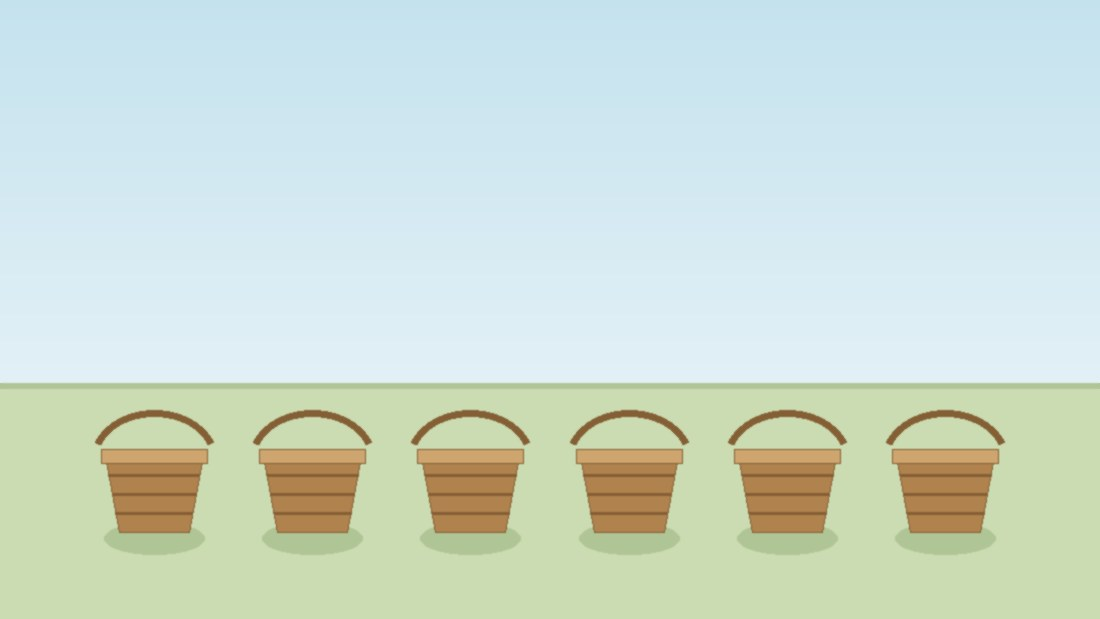
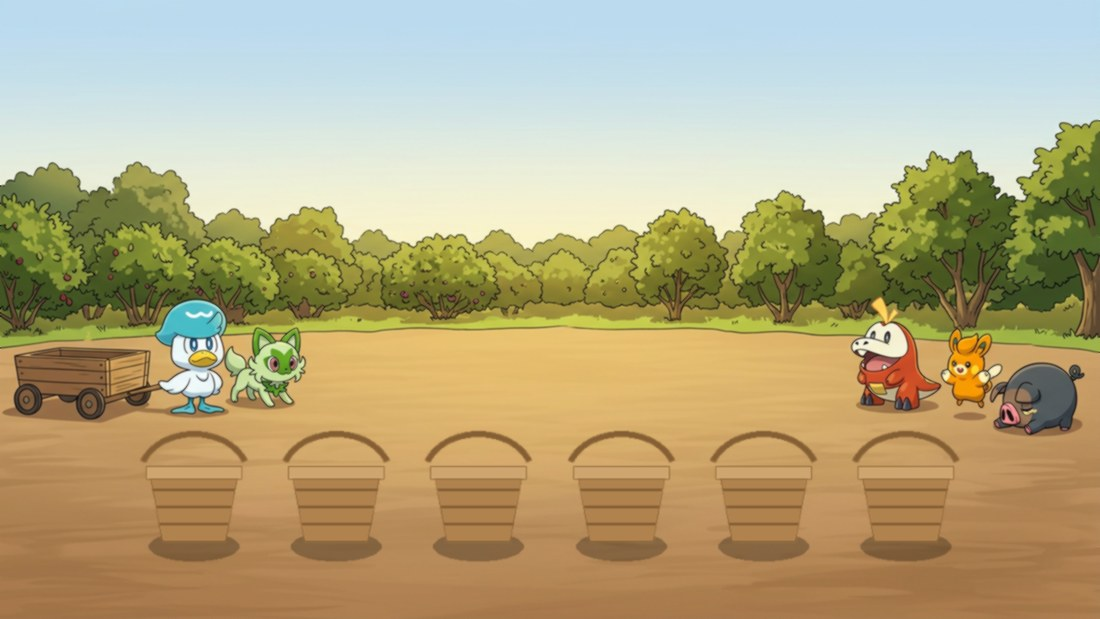
HH-167: paint real scenes behind the counting panels — Lessons 6, 7, 8
Same split as Lesson 5: the model paints the scene with the stage bare
and the cast at the edges, the exact objects go on top from the
deterministic renderer. Seven more panels, every one counted by eye
against its caption: 8 loose berries on the dock; 6 empty baskets; the
6-unit bar of 5 twice (30, and the same bar with one section lit); the
30-berry heap in three rows of ten; 1 basket of 4 against 3 baskets of
4; the two comparison bars from one left edge.

One more staging lesson: a full-width bar model runs edge to edge and
lands on top of whoever is standing in the corners, so full-span panels
inset the object layer to four-fifths, anchored bottom-centre so the
objects stay on the ground. Recompositing is free, so the Lesson 5
panels took the inset too.

diff --git a/tutor/management/commands/illustrate_ch4_diagrams.py b/tutor/management/commands/illustrate_ch4_diagrams.py
@@ -134,8 +134,9 @@ SCENES = {
         "blue-headed duckling QUAXLY stands proudly with a stick in one wing; at the far "
         "RIGHT edge the grass kitten SPRIGATITO and the red crocodile FUECOCO watch.",
         ["quaxly", "sprigatito", "fuecoco"]),
-    ("pokemon-ch4-l7-bar-model-word-problems", 5): ("a sunlit berry orchard under open sky, comic and affectionate; the flat ground "
-        "surface is wide, smooth, level, bare short grass. "
+    ("pokemon-ch4-l7-bar-model-word-problems", 5): ("a sunlit orchard under open sky, comic and affectionate; the flat ground "
+        "surface is wide, smooth, level, bare short grass; every tree and bush is plain "
+        "solid green leaf with NO dots, NO fruit and NO flowers on it. "
         "At the far LEFT edge the grass kitten SPRIGATITO is mid-pounce after a small "
         "fluttering butterfly, and two EMPTY woven baskets lie tumbled on their sides "
         "right at the left edge; at the far RIGHT edge the blue-headed duckling QUAXLY "
@@ -228,13 +229,25 @@ def render_layer(build, span):
     return layer.convert("RGBA")
 
 
+#: How much of the frame's width the objects may use, by span. A full-width
+#: panel's bar model runs edge to edge and lands on top of the cast in the
+#: corners; pulled in to four-fifths it clears them and is still large.
+INSET = {"full": 0.80, "wide": 0.90, "normal": 1.0, "tall": 1.0}
+
+
 def composite(scene_path, build, span):
     w, h = dg.SPAN_SIZE[span]
     scene = Image.open(scene_path).convert("RGB").resize((w, h), Image.LANCZOS)
     layer = render_layer(build, span)
-    # A touch of blur on the layer's shadows only would need a second pass;
-    # the alpha ellipse reads as a shadow already at this size.
-    scene.paste(layer, (0, 0), layer)
+    factor = INSET.get(span, 1.0)
+    if factor < 1.0:
+        lw, lh = round(w * factor), round(h * factor)
+        layer = layer.resize((lw, lh), Image.LANCZOS)
+        # Anchored bottom-centre so the objects stay standing on the ground.
+        offset = ((w - lw) // 2, h - lh)
+    else:
+        offset = (0, 0)
+    scene.paste(layer, offset, layer)
     return scene.filter(ImageFilter.SMOOTH)
 
 
